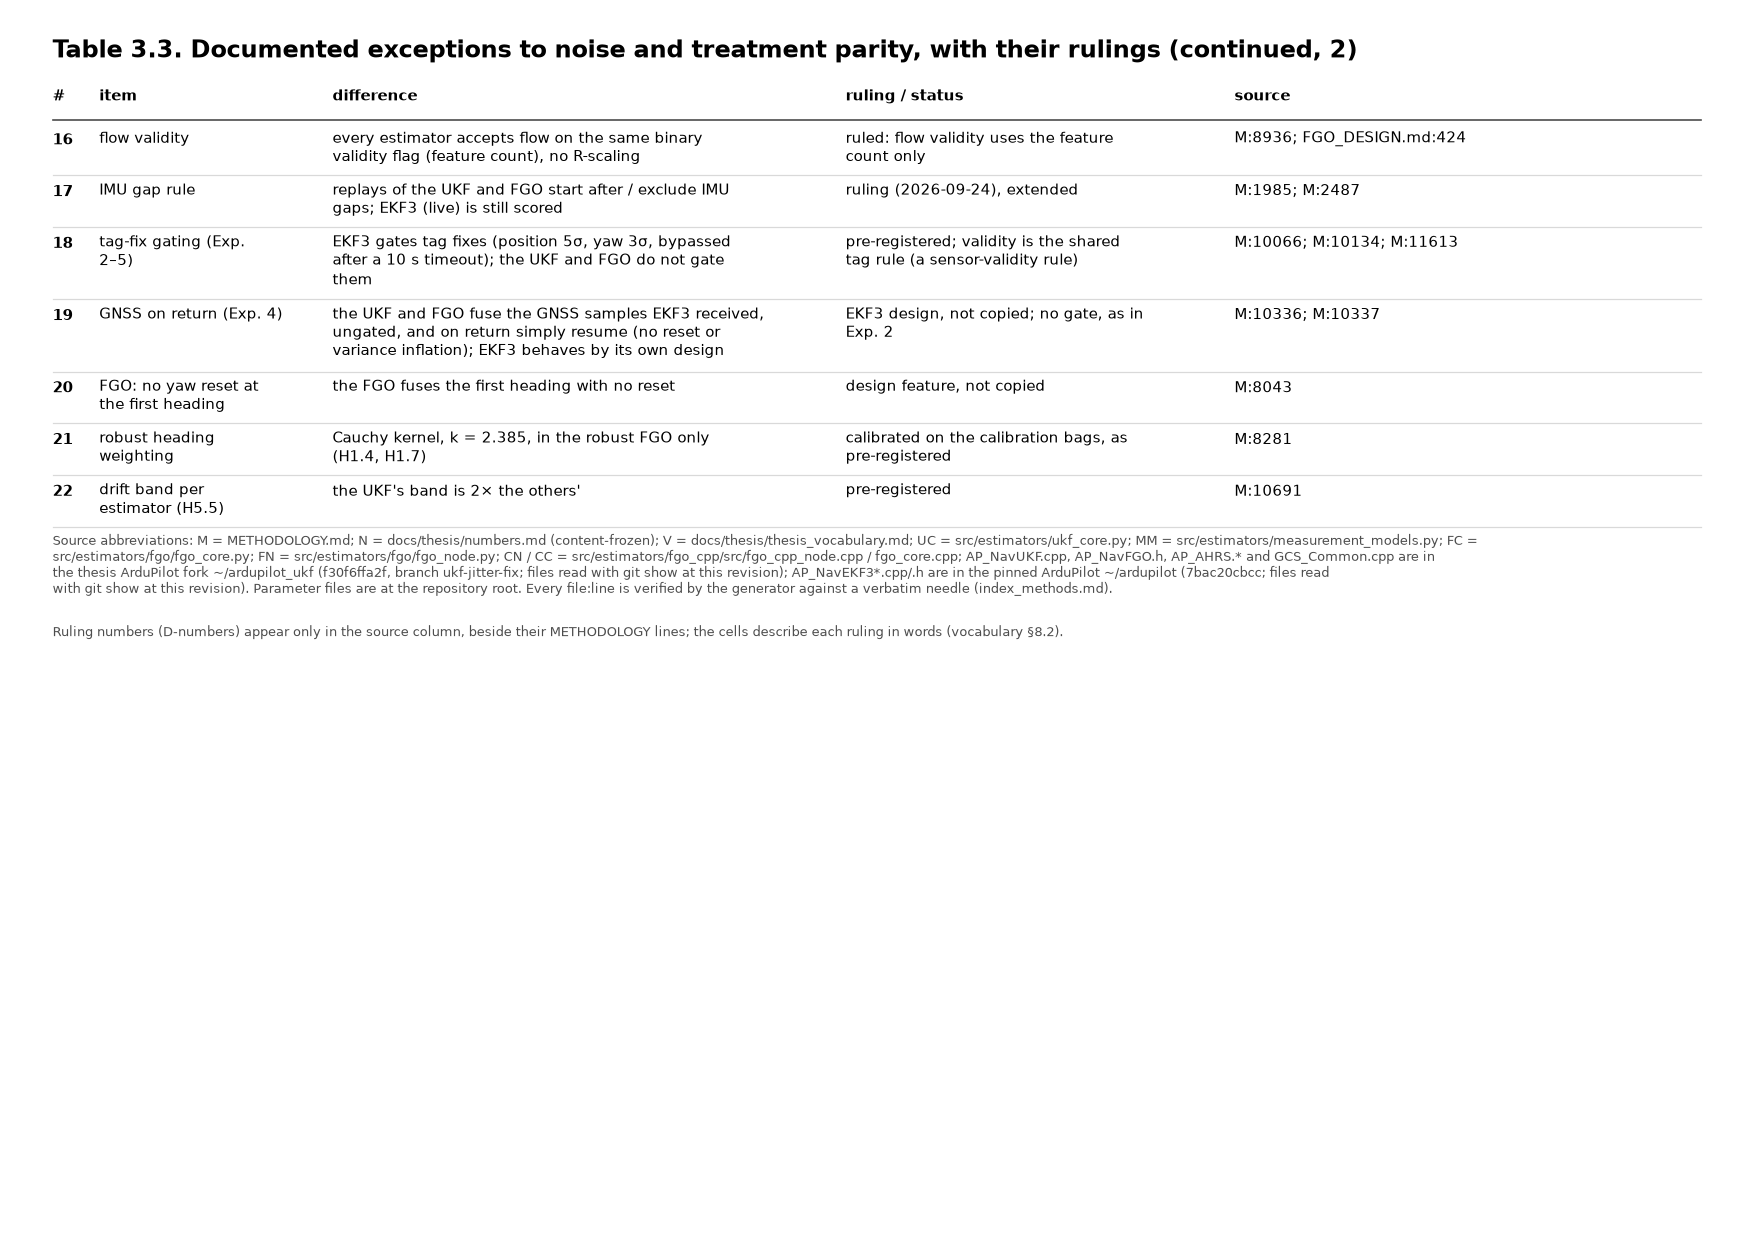
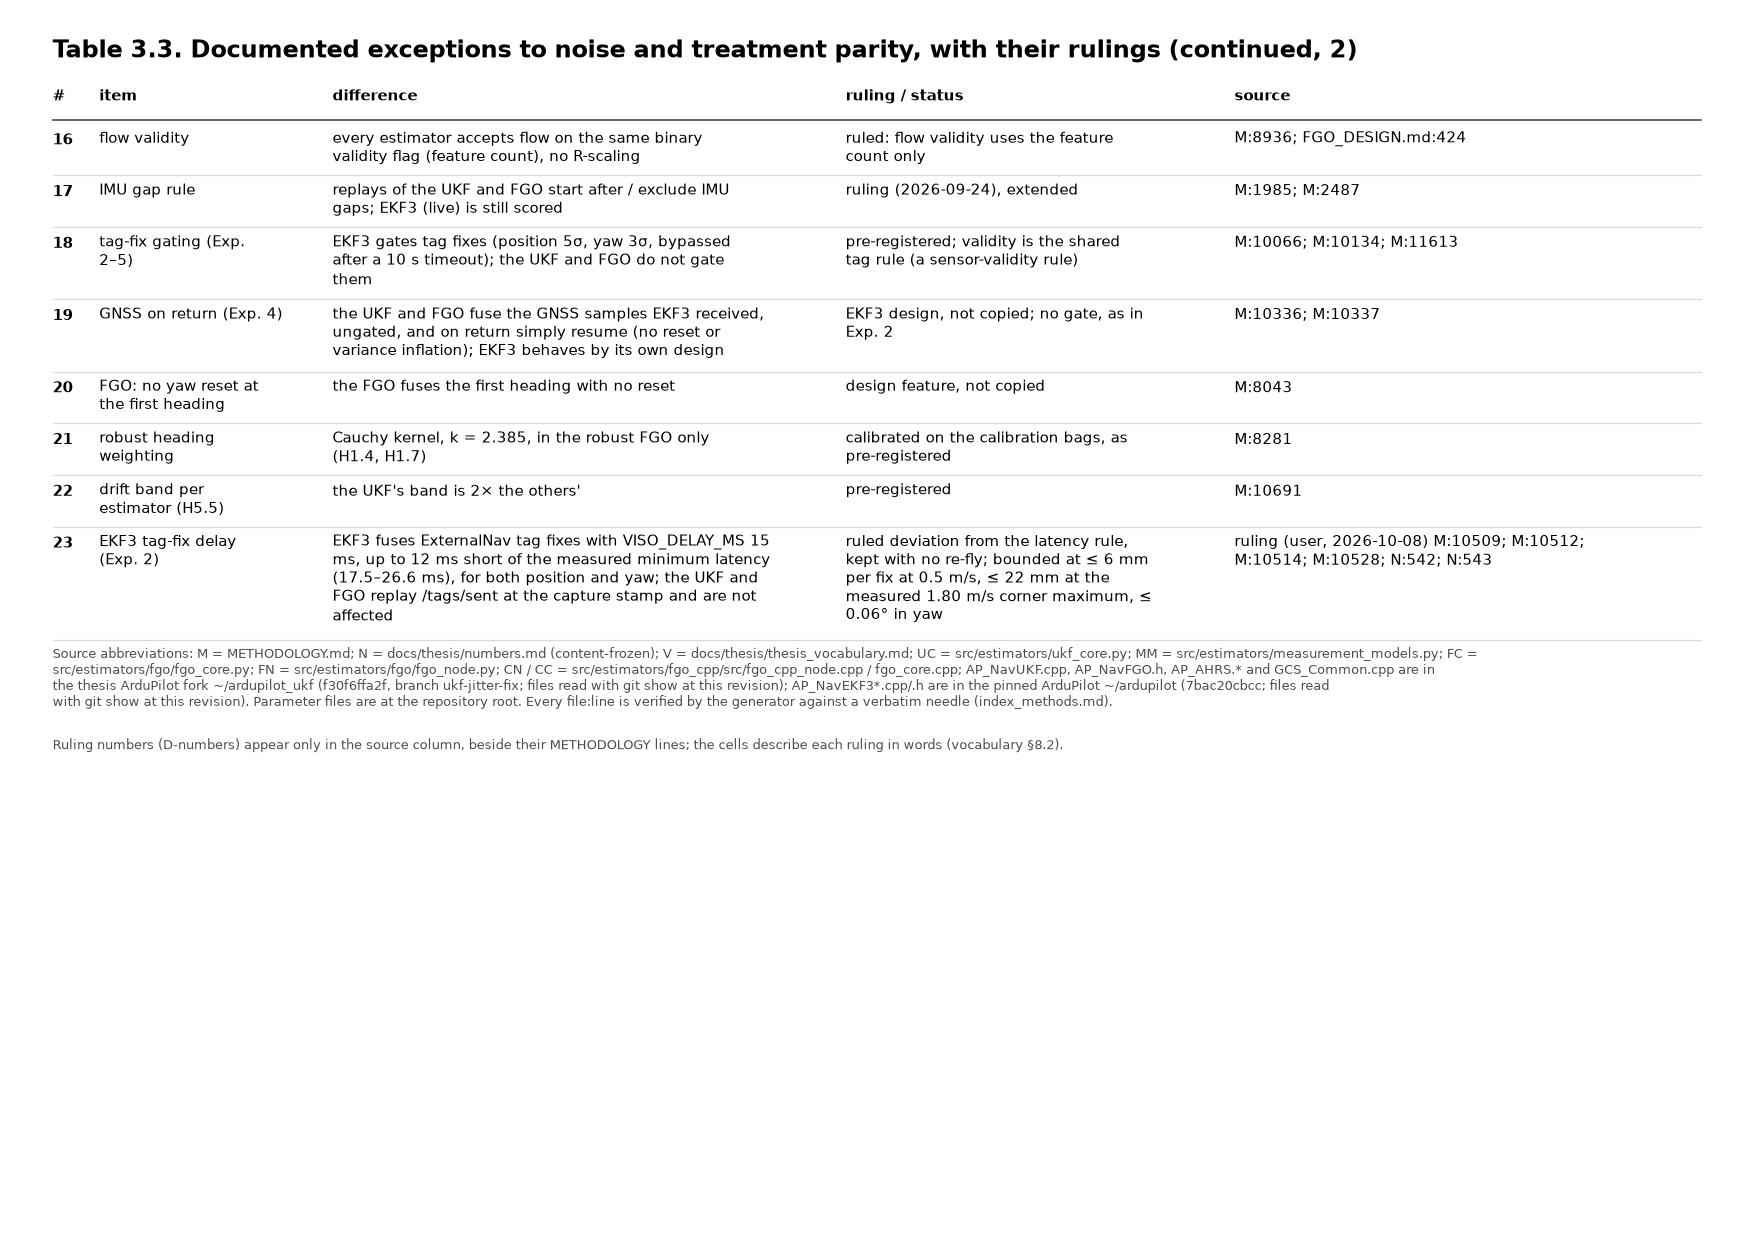
Table 3.3 row 23: EKF3 tag-fix delay (Exp. 2, VISO_DELAY_MS 15), with the 2026-10-08 ruling date; 7 exact checks, 6 verified citations (326/326, 38/38); D126
Claude-Session: https://claude.ai/code/session_01M5Uu3S5ud5sdn6rUTpz7T1

Changed region(s): [[0.0308, 0.429, 0.8933, 0.6129]]

diff --git a/eval/figs_thesis_methods.py b/eval/figs_thesis_methods.py
@@ -674,7 +674,24 @@ def tab_fairness():
         ["21", "robust heading weighting", "Cauchy kernel, k = 2.385, in the robust FGO only (H1.4, H1.7)", "calibrated on the calibration bags, as pre-registered",
          f"{S('M', 8281, 'Cauchy, k = 2.385 chosen')}"],
         ["22", "drift band per estimator (H5.5)", "the UKF's band is 2× the others'", "pre-registered", f"{S('M', 10691, 'UKF:** ≤ 2× those')}"],
+        ["23", "EKF3 tag-fix delay (Exp. 2)", "EKF3 fuses ExternalNav tag fixes with VISO_DELAY_MS 15 ms, up to 12 ms short of the measured "
+         "minimum latency (17.5–26.6 ms), for both position and yaw; the UKF and FGO replay /tags/sent at the capture stamp and are not affected",
+         "ruled deviation from the latency rule, kept with no re-fly; bounded at ≤ 6 mm per fix at 0.5 m/s, ≤ 22 mm at the measured "
+         "1.80 m/s corner maximum, ≤ 0.06° in yaw",
+         f"ruling (user, 2026-10-08) {S('M', 10509, 'RULING (user, 2026-10-08): T `VISO_DELAY_MS` stays 15 ms, no re-fly')}; "
+         f"{S('M', 10512, 'VISP receipt − capture was **17.5–26.6 ms**, so 15 ms is up to **12 ms short**')}; "
+         f"{S('M', 10514, 'the ExternalNav delay applies to **both** position and yaw fusion')}; "
+         f"{S('M', 10528, 'The UKF and FGO replay `/tags/sent` at the capture stamp and are not affected at all')}; "
+         f"{S('N', 542, 'the per-fix bound is ≤ 6 mm nominal, ≤ 22 mm at the measured 1.80 m/s')}; {S('N', 543, '≤ 0.06° in yaw')}"],
     ]
+    # Row 23's numbers, EXACT against the cited lines (methodology and the frozen numbers file).
+    check("Table 3.3 row 23: measured minimum latency (ms)", "17.5–26.6", grab("M", 10512, r"\*\*([\d.]+–[\d.]+) ms\*\*"), "M:10512")
+    check("Table 3.3 row 23: shortfall (ms)", "12", grab("M", 10512, r"up to \*\*(\d+) ms short"), "M:10512")
+    check("Table 3.3 row 23: nominal bound (mm)", "6", grab("N", 542, r"≤ (\d+) mm nominal"), "N:542")
+    check("Table 3.3 row 23: corner bound (mm)", "22", grab("N", 542, r"≤ (\d+) mm at the measured"), "N:542")
+    check("Table 3.3 row 23: corner speed (m/s)", "1.80", grab("N", 542, r"measured ([\d.]+) m/s"), "N:542")
+    check("Table 3.3 row 23: yaw bound (deg)", "0.06", grab("N", 543, r"≤ ([\d.]+)° in yaw"), "N:543")
+    check("Table 3.3 row 23: nominal speed (m/s)", "0.5", grab("M", 10517, r"12 ms × ([\d.]+) m/s"), "M:10517")
     save_tab("Table 3.3", "methods_noise_exceptions", "Documented exceptions to noise and treatment parity, with their rulings",
              "Every documented place where the noise or the treatment differs between estimators, with the ruling that covers it. "
              "Two code differences (5, 6) have no ruling in the record and are reported, not resolved.",

diff --git a/docs/thesis/tables/methods_noise_exceptions.tex b/docs/thesis/tables/methods_noise_exceptions.tex
@@ -1,4 +1,4 @@
-% Table 3.3: generated by eval/figs_thesis_methods.py (commit d5da93a). Sources and cross-checks: docs/thesis/figures_thesis/index_methods.md.
+% Table 3.3: generated by eval/figs_thesis_methods.py (commit f51e921). Sources and cross-checks: docs/thesis/figures_thesis/index_methods.md.
 % Needs \usepackage{booktabs} (and longtable/landscape if typeset at full width). Not compiled here (no TeX installed);
 % checked for ASCII, balanced braces and the column count of every row.
 \begin{table}[htbp]
@@ -32,6 +32,7 @@
 20 & FGO: no yaw reset at the first heading & the FGO fuses the first heading with no reset & design feature, not copied & M:8043 \\
 21 & robust heading weighting & Cauchy kernel, k = 2.385, in the robust FGO only (H1.4, H1.7) & calibrated on the calibration bags, as pre-registered & M:8281 \\
 22 & drift band per estimator (H5.5) & the UKF's band is 2$\times$ the others' & pre-registered & M:10691 \\
+23 & EKF3 tag-fix delay (Exp. 2) & EKF3 fuses ExternalNav tag fixes with VISO\_DELAY\_MS 15 ms, up to 12 ms short of the measured minimum latency (17.5--26.6 ms), for both position and yaw; the UKF and FGO replay /tags/sent at the capture stamp and are not affected & ruled deviation from the latency rule, kept with no re-fly; bounded at $\le$ 6 mm per fix at 0.5 m/s, $\le$ 22 mm at the measured 1.80 m/s corner maximum, $\le$ 0.06\textdegree{} in yaw & ruling (user, 2026-10-08) M:10509; M:10512; M:10514; M:10528; N:542; N:543 \\
 \bottomrule
 \end{tabular}
 \par\smallskip\raggedright

diff --git a/docs/thesis/figures_thesis/index_methods.md b/docs/thesis/figures_thesis/index_methods.md
@@ -1,8 +1,8 @@
 # Methodology figure and tables: index (2026-10-17)
 
-Built by `eval/figs_thesis_methods.py` at commit `a6f6fd2` (run with `/home/makerspace/venv-evo/bin/python`). Drawing and tabulating only: no simulation, no estimator result recomputed, numbers.md not edited. **Not yet in the combined PDF**: integration with `eval/figs_thesis.py` and `index.md` comes later. ArduPilot trees cited: thesis fork `~/ardupilot_ukf` (f30f6ffa2f, branch ukf-jitter-fix; files read with git show at this revision); pinned `~/ardupilot` (7bac20cbcc; files read with git show at this revision).
+Built by `eval/figs_thesis_methods.py` at commit `f51e921` (run with `/home/makerspace/venv-evo/bin/python`). Drawing and tabulating only: no simulation, no estimator result recomputed, numbers.md not edited. **Not yet in the combined PDF**: integration with `eval/figs_thesis.py` and `index.md` comes later. ArduPilot trees cited: thesis fork `~/ardupilot_ukf` (f30f6ffa2f, branch ukf-jitter-fix; files read with git show at this revision); pinned `~/ardupilot` (7bac20cbcc; files read with git show at this revision).
 
-**Source checks: 320/320 citations verified** (the needle occurs verbatim on the cited line). **Cross-checks: 31/31 EXACT** (computed string = stored string, `rd()` of `eval/figs_thesis.py`, loaded by AST).
+**Source checks: 326/326 citations verified** (the needle occurs verbatim on the cited line). **Cross-checks: 38/38 EXACT** (computed string = stored string, `rd()` of `eval/figs_thesis.py`, loaded by AST).
 
 **Proposed numbering** (vocabulary §6: by chapter; Chapter 3 = method, Chapter 8 = towards real flights). File names are descriptive and new; `M1`–`M3` are deliberately not used as ids because they are the F8 mitigation codes.
 
@@ -11,7 +11,7 @@ Built by `eval/figs_thesis_methods.py` at commit `a6f6fd2` (run with `/home/make
 | Figure 3.1 | `methods_architecture.png`, `methods_architecture.pdf` | System architecture: sensors, bridges, the three estimators and where each one runs | 0/0 | Chapter 3 (method): the architecture the estimators, experiments and safety tables refer to |
 | Table 3.1 | `methods_estimator_design.md`, `methods_estimator_design.tex`, `methods_estimator_design.png` | Estimator design: EKF3, the UKF and the FGO | 7/7 | Chapter 3 (method), estimators |
 | Table 3.2 | `methods_noise_parity.md`, `methods_noise_parity.tex`, `methods_noise_parity.png` | Noise parity: measurement and process noise per sensor and estimator | 15/15 | Chapter 3 (method), fairness |
-| Table 3.3 | `methods_noise_exceptions.md`, `methods_noise_exceptions.tex`, `methods_noise_exceptions_p1.png`, `methods_noise_exceptions_p2.png` | Documented exceptions to noise and treatment parity, with their rulings | 0/0 | Chapter 3 (method), fairness |
+| Table 3.3 | `methods_noise_exceptions.md`, `methods_noise_exceptions.tex`, `methods_noise_exceptions_p1.png`, `methods_noise_exceptions_p2.png` | Documented exceptions to noise and treatment parity, with their rulings | 7/7 | Chapter 3 (method), fairness |
 | Table 3.4 | `methods_experiment_matrix.md`, `methods_experiment_matrix.tex`, `methods_experiment_matrix_p1.png`, `methods_experiment_matrix_p2.png` | Experiment matrix | 4/4 | Chapter 3 (method), experiments |
 | Table 8.1 | `realflight_compute.md`, `realflight_compute.tex`, `realflight_compute.png` | Compute and deployability per estimator | 4/4 | Chapter 8 (towards real flights); the offline row may also sit in Chapter 3 |
 | Table 8.2 | `realflight_safety_findings.md`, `realflight_safety_findings.tex`, `realflight_safety_findings_p1.png`, `realflight_safety_findings_p2.png` | Safety findings from the SITL safety bench, with mitigations and status | 1/1 | Chapter 8 (towards real flights) |
@@ -89,6 +89,16 @@ Built by `eval/figs_thesis_methods.py` at commit `a6f6fd2` (run with `/home/make
 
 - **Caption:** Every documented place where the noise or the treatment differs between estimators, with the ruling that covers it. Two code differences (5, 6) have no ruling in the record and are reported, not resolved.
 - **Sources:** in the table's source column (`docs/thesis/tables/methods_noise_exceptions.md`).
+
+| check | computed | expected | source | match |
+|---|---|---|---|---|
+| Table 3.3 row 23: measured minimum latency (ms) | `17.5–26.6` | `17.5–26.6` | M:10512 | yes |
+| Table 3.3 row 23: shortfall (ms) | `12` | `12` | M:10512 | yes |
+| Table 3.3 row 23: nominal bound (mm) | `6` | `6` | N:542 | yes |
+| Table 3.3 row 23: corner bound (mm) | `22` | `22` | N:542 | yes |
+| Table 3.3 row 23: corner speed (m/s) | `1.80` | `1.80` | N:542 | yes |
+| Table 3.3 row 23: yaw bound (deg) | `0.06` | `0.06` | N:543 | yes |
+| Table 3.3 row 23: nominal speed (m/s) | `0.5` | `0.5` | M:10517 | yes |
 
 ### Table 3.4: Experiment matrix
 
@@ -330,6 +340,12 @@ Built by `eval/figs_thesis_methods.py` at commit `a6f6fd2` (run with `/home/make
 | `METHODOLOGY.md` | 8043 | `not copied, per D18` | yes |
 | `METHODOLOGY.md` | 8281 | `Cauchy, k = 2.385 chosen` | yes |
 | `METHODOLOGY.md` | 10691 | `UKF:** ≤ 2× those` | yes |
+| `METHODOLOGY.md` | 10509 | `RULING (user, 2026-10-08): T `VISO_DELAY_MS` stays 15 ms, no re-fly` | yes |
+| `METHODOLOGY.md` | 10512 | `VISP receipt − capture was **17.5–26.6 ms**, so 15 ms is up to **12 ms short**` | yes |
+| `METHODOLOGY.md` | 10514 | `the ExternalNav delay applies to **both** position and yaw fusion` | yes |
+| `METHODOLOGY.md` | 10528 | `The UKF and FGO replay `/tags/sent` at the capture stamp and are not affected at all` | yes |
+| `docs/thesis/numbers.md` | 542 | `the per-fix bound is ≤ 6 mm nominal, ≤ 22 mm at the measured 1.80 m/s` | yes |
+| `docs/thesis/numbers.md` | 543 | `≤ 0.06° in yaw` | yes |
 | `docs/thesis/thesis_vocabulary.md` | 41 | `**1A**` | yes |
 | `METHODOLOGY.md` | 865 | `3 corridor worlds × 3 repeats` | yes |
 | `METHODOLOGY.md` | 5640 | `7 new repeats` | yes |

diff --git a/docs/thesis/tier1/decisions_log.md b/docs/thesis/tier1/decisions_log.md
@@ -149,5 +149,6 @@ The rules in brief:
 | D123 | 2026-11-04 | check_factsheets.py resolved citations into the writing_pack copies (ambiguous file names) | fix harness / leave | **fixed: writing_pack added to SKIP_DIRS** (same class as D109; copies are verified byte-identical, the originals stay the cited files) | 5 (harness bug) | yes |
 | D124 | 2026-11-04 (user: "make all the plots which are not in the thesis_figures into thesis level quality so I can pick and choose") | How to build the candidate set | one agent / parallel groups | **four parallel Sonnet agents (A: setup and Experiment 1, incl. splitting F9's inset into separate plots; B: Experiments 2-5 incl. the loop trajectories; C: E2, E3 incl. tag maps, E5; D: E4, E6, ablation), each with its own new generator writing only to docs/thesis/figures_thesis/candidates/ (own captions, index, checks)**, so no two agents edit the same file; only group A edits eval/figs_thesis.py (F9). Rules as the restyle (RS-1, D113): 160 mm, no titles, badges, verdict text or bold in axes, no overlapping plots or insets, side-by-side panels only on a shared scale, captions ending in a Table A.4 pointer, every number in an exact cross-check, stored outputs only. The coordinator merges one at a time, builds candidates/thesis_figures_candidates.pdf and extends the caption check; the walkthrough and summary stay unchanged | user, 1 | yes |
 | D125 | 2026-11-04 (candidate set complete) | Assembling the D124 candidates | — | **45 candidates merged (A01-A22, B01-B08, C01-C07, D01-D08), each reviewed by eye and given a fix sweep against the no-overlap / no-verdict-text / no-bold / exact-check checklist; eval/caption_verdict_check.py extended to candidates/captions/; eval/build_candidates_pdf.py builds candidates/thesis_figures_candidates.pdf (contents page, then one page per candidate with its draft caption; markdown-only tables rendered as table pages). Rulings on agent flags: duplicates kept for the user to pick (B02 vs A03 panel; C04 vs Table A.4 E3 rows; A13-A17 vs F2/F9 layout); A04-A06 stay in group A. Restart rule used once (group B, dropped connection)** | 1, user (D124) | yes |
+| D126 | 2026-11-10 (Table 3.3 row 23) | Methods chapter: the Exp. 2 `VISO_DELAY_MS 15` deviation had no home in Table 3.3 | — | **Row 23 added via eval/figs_thesis_methods.py (user approval 2026-11-10): EKF3 tag-fix delay (Exp. 2); source cell carries the 2026-10-08 user ruling date; every number EXACT-checked against M:10512/M:10517 and N:542-543; the drafted phrase "all below half the fix noise" dropped because it is not verbatim in the source (M:10527 reads "All bounds are below half the fix noise"), per the user's condition. Only Table 3.3 page 2 and index_methods.md change; the regenerator's stamp-only rewrites of the other tables and its removal of the Figure 3.1 caption's verdict pointer were reverted to HEAD** | user | yes |
 
 *(The user's own rulings before 2026-10-23 10:30 are recorded in preregistration.md and METHODOLOGY.md, not here.)*

diff --git a/docs/thesis/tables/methods_noise_exceptions.md b/docs/thesis/tables/methods_noise_exceptions.md
@@ -26,9 +26,10 @@ Every documented place where the noise or the treatment differs between estimato
 | 20 | FGO: no yaw reset at the first heading | the FGO fuses the first heading with no reset | design feature, not copied | M:8043 |
 | 21 | robust heading weighting | Cauchy kernel, k = 2.385, in the robust FGO only (H1.4, H1.7) | calibrated on the calibration bags, as pre-registered | M:8281 |
 | 22 | drift band per estimator (H5.5) | the UKF's band is 2× the others' | pre-registered | M:10691 |
+| 23 | EKF3 tag-fix delay (Exp. 2) | EKF3 fuses ExternalNav tag fixes with VISO_DELAY_MS 15 ms, up to 12 ms short of the measured minimum latency (17.5–26.6 ms), for both position and yaw; the UKF and FGO replay /tags/sent at the capture stamp and are not affected | ruled deviation from the latency rule, kept with no re-fly; bounded at ≤ 6 mm per fix at 0.5 m/s, ≤ 22 mm at the measured 1.80 m/s corner maximum, ≤ 0.06° in yaw | ruling (user, 2026-10-08) M:10509; M:10512; M:10514; M:10528; N:542; N:543 |
 
 *Source abbreviations: M = METHODOLOGY.md; N = docs/thesis/numbers.md (content-frozen); V = docs/thesis/thesis_vocabulary.md; UC = src/estimators/ukf_core.py; MM = src/estimators/measurement_models.py; FC = src/estimators/fgo/fgo_core.py; FN = src/estimators/fgo/fgo_node.py; CN / CC = src/estimators/fgo_cpp/src/fgo_cpp_node.cpp / fgo_core.cpp; AP_NavUKF.cpp, AP_NavFGO.h, AP_AHRS.* and GCS_Common.cpp are in the thesis ArduPilot fork ~/ardupilot_ukf (f30f6ffa2f, branch ukf-jitter-fix; files read with git show at this revision); AP_NavEKF3*.cpp/.h are in the pinned ArduPilot ~/ardupilot (7bac20cbcc; files read with git show at this revision). Parameter files are at the repository root. Every file:line is verified by the generator against a verbatim needle (index_methods.md).*
 
 *Ruling numbers (D-numbers) appear only in the source column, beside their METHODOLOGY lines; the cells describe each ruling in words (vocabulary §8.2).*
 
-<!-- generated by eval/figs_thesis_methods.py (commit d5da93a); no number recomputed. Sources verified and cross-checks: docs/thesis/figures_thesis/index_methods.md, Table 3.3. -->
+<!-- generated by eval/figs_thesis_methods.py (commit f51e921); no number recomputed. Sources verified and cross-checks: docs/thesis/figures_thesis/index_methods.md, Table 3.3. -->
